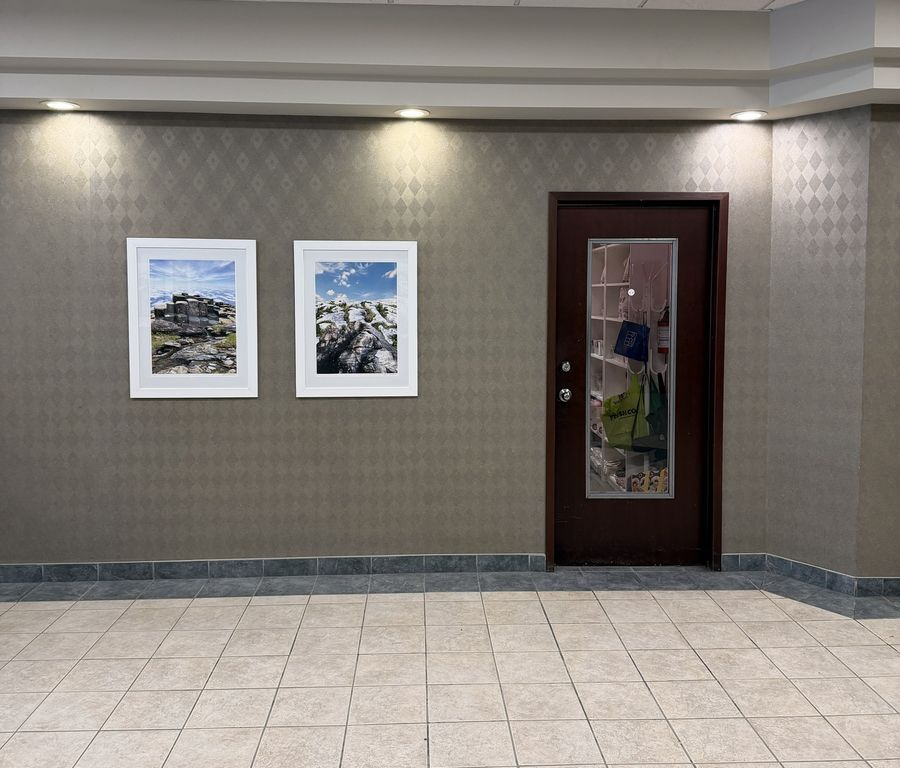
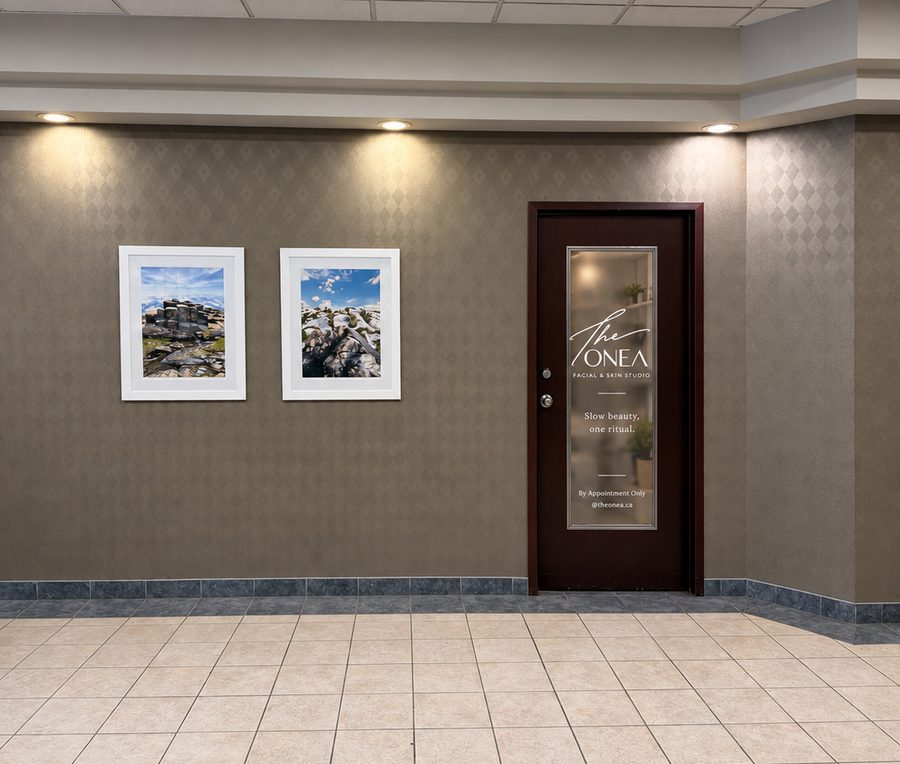
到店指南：大堂照片换成带 The ONEA 门贴的版本
Claude-Session: https://claude.ai/code/session_017aCv1joKBZrY2YfMuhX5tw

diff --git a/guide/index.html b/guide/index.html
@@ -150,11 +150,10 @@ details p{font-size:14.5px;color:#3c3934;padding:0 2px 16px;margin:0}
   <div class="step">
     <div class="step-h"><span class="num">3</span><h3><span class="zh">一楼大堂，左手边的门</span><span class="en">Ground-floor lobby, the door on your left</span></h3></div>
     <div class="step-b">
-      <p><span class="zh">进门后就在一楼大堂，不用上楼。左手边这扇深色木门就是 The ONEA。</span><span class="en">You'll be in the ground-floor lobby — no elevator needed. The dark wooden door on your left is The ONEA.</span></p>
+      <p><span class="zh">进门后就在一楼大堂，不用上楼。左手边贴着 The ONEA 标志的那扇门就是我们。</span><span class="en">You'll be in the ground-floor lobby — no elevator needed. The dark wooden door on your left with The ONEA sign is us.</span></p>
       <div class="pic">
-        <img src="img/3-lobby.jpg" alt="一楼大堂左手边的深色木门" width="900" height="768" loading="lazy">
-        <span class="pin" style="left:71%;top:47%"></span>
-        <span class="tag up" style="left:71%;top:16%">The ONEA</span>
+        <img src="img/3-lobby.jpg" alt="一楼大堂左手边，门上有 The ONEA 标志的深色木门" width="900" height="764" loading="lazy">
+        <span class="tag up" style="left:68%;top:14%"><span class="zh">就是这扇门</span><span class="en">This door</span></span>
       </div>
       <p><span class="zh">门内是 Lash Fairies 工作室，The ONEA 就在里面，推门进来就是。</span><span class="en">Inside is the Lash Fairies studio — The ONEA is in there, so come on in.</span></p>
       <p class="sub"><span class="zh">找不到或门关着，微信告诉我们一声，我们出来接你。</span><span class="en">Can't find us, or the door is closed? Message us on WeChat and we'll come out to meet you.</span></p>
